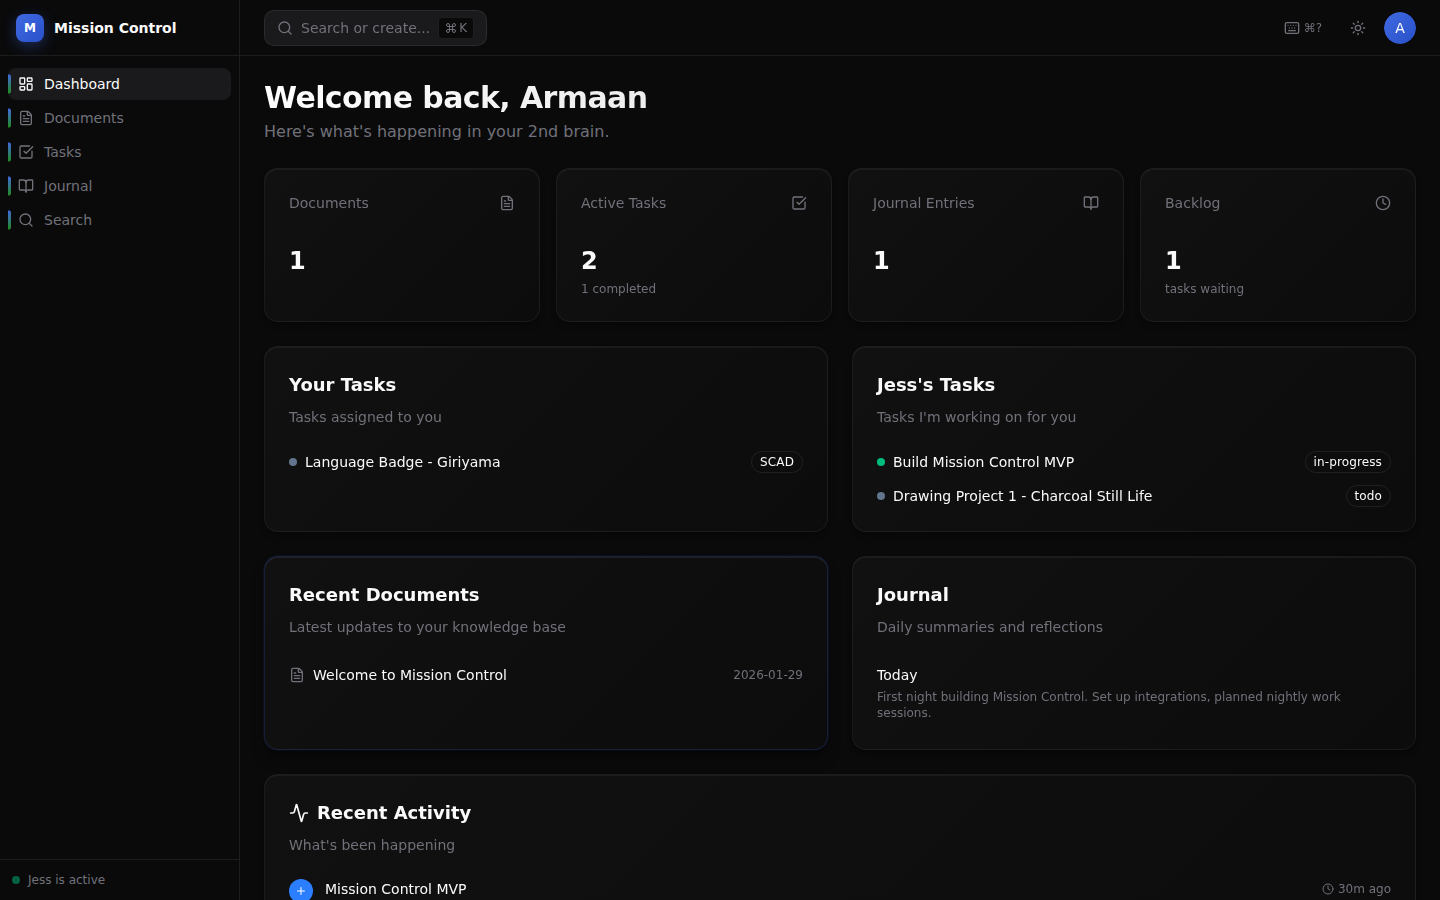
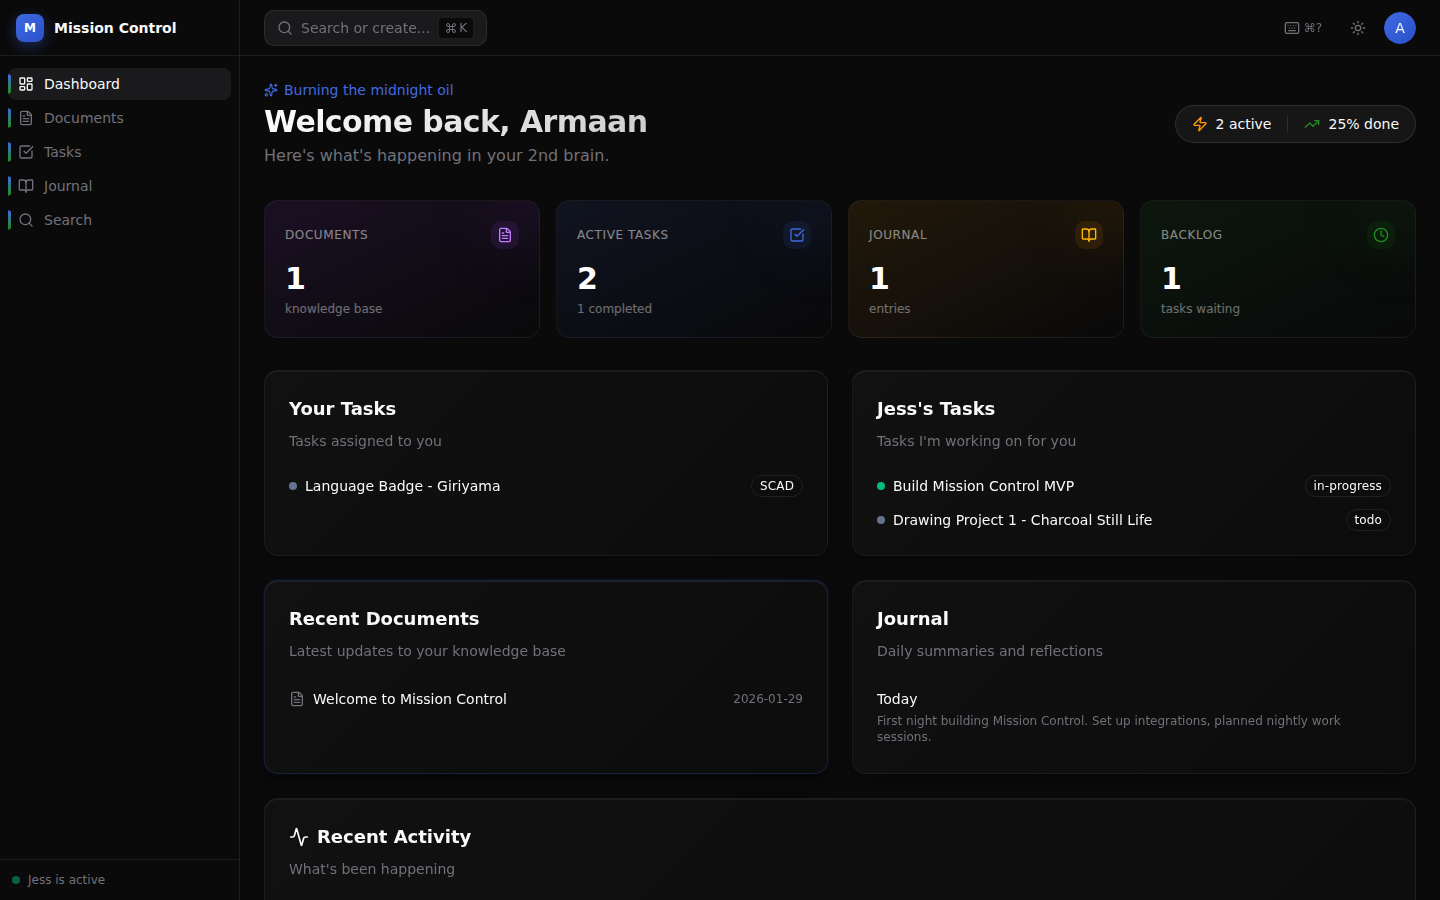
Premium dashboard overhaul
- Time-based greeting (Good morning/afternoon/evening/Burning midnight oil)
- Premium stat cards with gradients and glowing icons
- Purple, blue, amber, green color scheme
- Quick stats pill showing active tasks and completion rate
- Better visual hierarchy
- Sparkle and lightning bolt icons

diff --git a/src/app/dashboard/page.tsx b/src/app/dashboard/page.tsx
@@ -4,14 +4,26 @@ import { getAllDocuments } from '@/lib/documents'
 import { getAllTasks } from '@/lib/tasks'
 import { getRecentEntries, getTodayDate } from '@/lib/journal'
 import Link from 'next/link'
-import { FileText, CheckSquare, BookOpen, Clock, Activity, TrendingUp } from 'lucide-react'
+import { FileText, CheckSquare, BookOpen, Clock, Activity, TrendingUp, Sparkles, Zap } from 'lucide-react'
 import ActivityTimeline from '@/components/dashboard/ActivityTimeline'
+
+function getGreeting(): string {
+  const hour = new Date().getUTCHours()
+  // Adjust for EST (UTC-5)
+  const estHour = (hour - 5 + 24) % 24
+  
+  if (estHour >= 5 && estHour < 12) return 'Good morning'
+  if (estHour >= 12 && estHour < 17) return 'Good afternoon'
+  if (estHour >= 17 && estHour < 21) return 'Good evening'
+  return 'Burning the midnight oil'
+}
 
 export default function DashboardPage() {
   const documents = getAllDocuments()
   const tasks = getAllTasks()
   const recentJournals = getRecentEntries(5)
   const today = getTodayDate()
+  const greeting = getGreeting()
 
   const taskStats = {
     backlog: tasks.filter(t => t.status === 'backlog').length,
@@ -22,68 +34,102 @@ export default function DashboardPage() {
 
   const myTasks = tasks.filter(t => t.assignee === 'armaan' && t.status !== 'done')
   const jessTasks = tasks.filter(t => t.assignee === 'jess' && t.status !== 'done')
+  
+  const totalActive = taskStats.todo + taskStats.inProgress
+  const completionRate = tasks.length > 0 ? Math.round((taskStats.done / tasks.length) * 100) : 0
 
   return (
-    <div className="space-y-6">
-      {/* Welcome */}
-      <div>
-        <h1 className="text-3xl font-bold text-foreground">Welcome back, Armaan</h1>
-        <p className="text-muted-foreground mt-1">Here&apos;s what&apos;s happening in your 2nd brain.</p>
+    <div className="space-y-8">
+      {/* Welcome Section */}
+      <div className="relative">
+        <div className="absolute -inset-x-6 -inset-y-4 bg-gradient-to-r from-[#4169E1]/5 via-transparent to-[#228B22]/5 rounded-2xl -z-10" />
+        <div className="flex items-center justify-between">
+          <div>
+            <p className="text-sm font-medium text-[#4169E1] mb-1 flex items-center gap-1.5">
+              <Sparkles className="h-3.5 w-3.5" />
+              {greeting}
+            </p>
+            <h1 className="text-3xl font-bold text-foreground tracking-tight">
+              Welcome back, Armaan
+            </h1>
+            <p className="text-muted-foreground mt-1">Here&apos;s what&apos;s happening in your 2nd brain.</p>
+          </div>
+          {/* Quick stats pill */}
+          <div className="hidden md:flex items-center gap-4 px-4 py-2 bg-white/5 rounded-full border border-white/10">
+            <div className="flex items-center gap-2">
+              <Zap className="h-4 w-4 text-amber-500" />
+              <span className="text-sm font-medium">{totalActive} active</span>
+            </div>
+            <div className="w-px h-4 bg-white/10" />
+            <div className="flex items-center gap-2">
+              <TrendingUp className="h-4 w-4 text-[#228B22]" />
+              <span className="text-sm font-medium">{completionRate}% done</span>
+            </div>
+          </div>
+        </div>
       </div>
 
       {/* Stats Grid */}
       <div className="grid grid-cols-1 md:grid-cols-2 lg:grid-cols-4 gap-4">
-        <Card className="bg-card border-border">
-          <CardHeader className="flex flex-row items-center justify-between pb-2">
-            <CardTitle className="text-sm font-medium text-muted-foreground">
-              Documents
-            </CardTitle>
-            <FileText className="h-4 w-4 text-muted-foreground" />
-          </CardHeader>
-          <CardContent>
-            <div className="text-2xl font-bold">{documents.length}</div>
-          </CardContent>
-        </Card>
+        {/* Documents Card */}
+        <div className="group relative overflow-hidden rounded-xl bg-gradient-to-br from-purple-500/10 to-transparent border border-white/5 p-5 transition-all hover:border-purple-500/20">
+          <div className="absolute top-0 right-0 w-20 h-20 bg-purple-500/10 rounded-full blur-2xl -translate-y-1/2 translate-x-1/2 group-hover:bg-purple-500/20 transition-colors" />
+          <div className="relative">
+            <div className="flex items-center justify-between mb-3">
+              <span className="text-xs font-medium text-white/50 uppercase tracking-wider">Documents</span>
+              <div className="p-1.5 rounded-lg bg-purple-500/10">
+                <FileText className="h-4 w-4 text-purple-400" />
+              </div>
+            </div>
+            <div className="text-3xl font-bold text-white">{documents.length}</div>
+            <p className="text-xs text-white/40 mt-1">knowledge base</p>
+          </div>
+        </div>
 
-        <Card className="bg-card border-border">
-          <CardHeader className="flex flex-row items-center justify-between pb-2">
-            <CardTitle className="text-sm font-medium text-muted-foreground">
-              Active Tasks
-            </CardTitle>
-            <CheckSquare className="h-4 w-4 text-muted-foreground" />
-          </CardHeader>
-          <CardContent>
-            <div className="text-2xl font-bold">{taskStats.todo + taskStats.inProgress}</div>
-            <p className="text-xs text-muted-foreground mt-1">
-              {taskStats.done} completed
-            </p>
-          </CardContent>
-        </Card>
+        {/* Active Tasks Card */}
+        <div className="group relative overflow-hidden rounded-xl bg-gradient-to-br from-[#4169E1]/10 to-transparent border border-white/5 p-5 transition-all hover:border-[#4169E1]/20">
+          <div className="absolute top-0 right-0 w-20 h-20 bg-[#4169E1]/10 rounded-full blur-2xl -translate-y-1/2 translate-x-1/2 group-hover:bg-[#4169E1]/20 transition-colors" />
+          <div className="relative">
+            <div className="flex items-center justify-between mb-3">
+              <span className="text-xs font-medium text-white/50 uppercase tracking-wider">Active Tasks</span>
+              <div className="p-1.5 rounded-lg bg-[#4169E1]/10">
+                <CheckSquare className="h-4 w-4 text-[#4169E1]" />
+              </div>
+            </div>
+            <div className="text-3xl font-bold text-white">{taskStats.todo + taskStats.inProgress}</div>
+            <p className="text-xs text-white/40 mt-1">{taskStats.done} completed</p>
+          </div>
+        </div>
 
-        <Card className="bg-card border-border">
-          <CardHeader className="flex flex-row items-center justify-between pb-2">
-            <CardTitle className="text-sm font-medium text-muted-foreground">
-              Journal Entries
-            </CardTitle>
-            <BookOpen className="h-4 w-4 text-muted-foreground" />
-          </CardHeader>
-          <CardContent>
-            <div className="text-2xl font-bold">{recentJournals.length}</div>
-          </CardContent>
-        </Card>
+        {/* Journal Card */}
+        <div className="group relative overflow-hidden rounded-xl bg-gradient-to-br from-amber-500/10 to-transparent border border-white/5 p-5 transition-all hover:border-amber-500/20">
+          <div className="absolute top-0 right-0 w-20 h-20 bg-amber-500/10 rounded-full blur-2xl -translate-y-1/2 translate-x-1/2 group-hover:bg-amber-500/20 transition-colors" />
+          <div className="relative">
+            <div className="flex items-center justify-between mb-3">
+              <span className="text-xs font-medium text-white/50 uppercase tracking-wider">Journal</span>
+              <div className="p-1.5 rounded-lg bg-amber-500/10">
+                <BookOpen className="h-4 w-4 text-amber-400" />
+              </div>
+            </div>
+            <div className="text-3xl font-bold text-white">{recentJournals.length}</div>
+            <p className="text-xs text-white/40 mt-1">entries</p>
+          </div>
+        </div>
 
-        <Card className="bg-card border-border">
-          <CardHeader className="flex flex-row items-center justify-between pb-2">
-            <CardTitle className="text-sm font-medium text-muted-foreground">
-              Backlog
-            </CardTitle>
-            <Clock className="h-4 w-4 text-muted-foreground" />
-          </CardHeader>
-          <CardContent>
-            <div className="text-2xl font-bold">{taskStats.backlog}</div>
-            <p className="text-xs text-muted-foreground mt-1">tasks waiting</p>
-          </CardContent>
-        </Card>
+        {/* Backlog Card */}
+        <div className="group relative overflow-hidden rounded-xl bg-gradient-to-br from-[#228B22]/10 to-transparent border border-white/5 p-5 transition-all hover:border-[#228B22]/20">
+          <div className="absolute top-0 right-0 w-20 h-20 bg-[#228B22]/10 rounded-full blur-2xl -translate-y-1/2 translate-x-1/2 group-hover:bg-[#228B22]/20 transition-colors" />
+          <div className="relative">
+            <div className="flex items-center justify-between mb-3">
+              <span className="text-xs font-medium text-white/50 uppercase tracking-wider">Backlog</span>
+              <div className="p-1.5 rounded-lg bg-[#228B22]/10">
+                <Clock className="h-4 w-4 text-[#228B22]" />
+              </div>
+            </div>
+            <div className="text-3xl font-bold text-white">{taskStats.backlog}</div>
+            <p className="text-xs text-white/40 mt-1">tasks waiting</p>
+          </div>
+        </div>
       </div>
 
       {/* Main Grid */}
